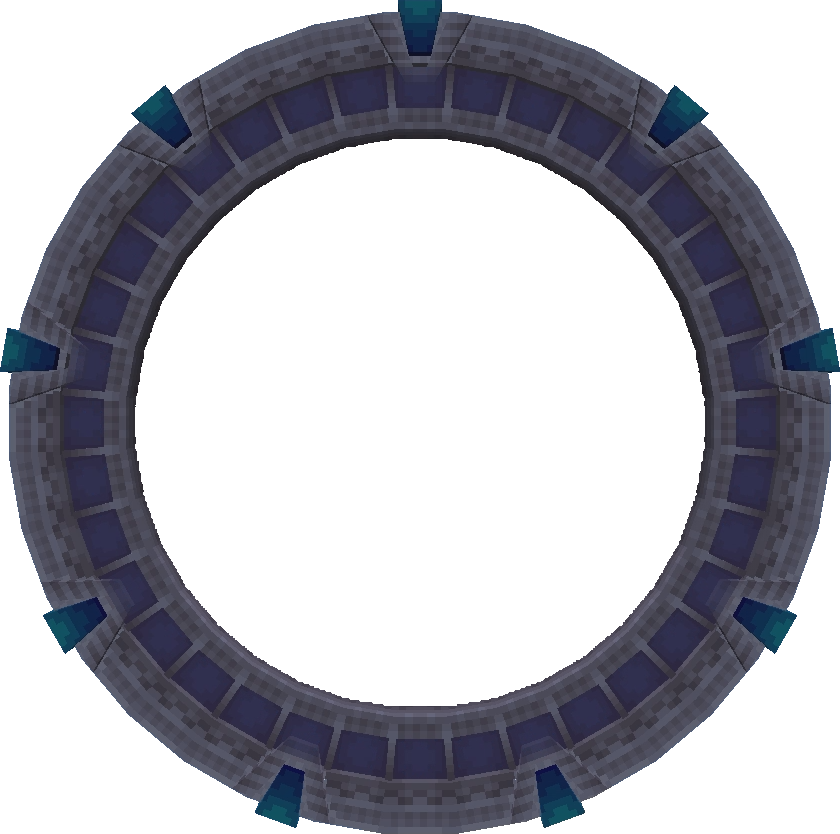
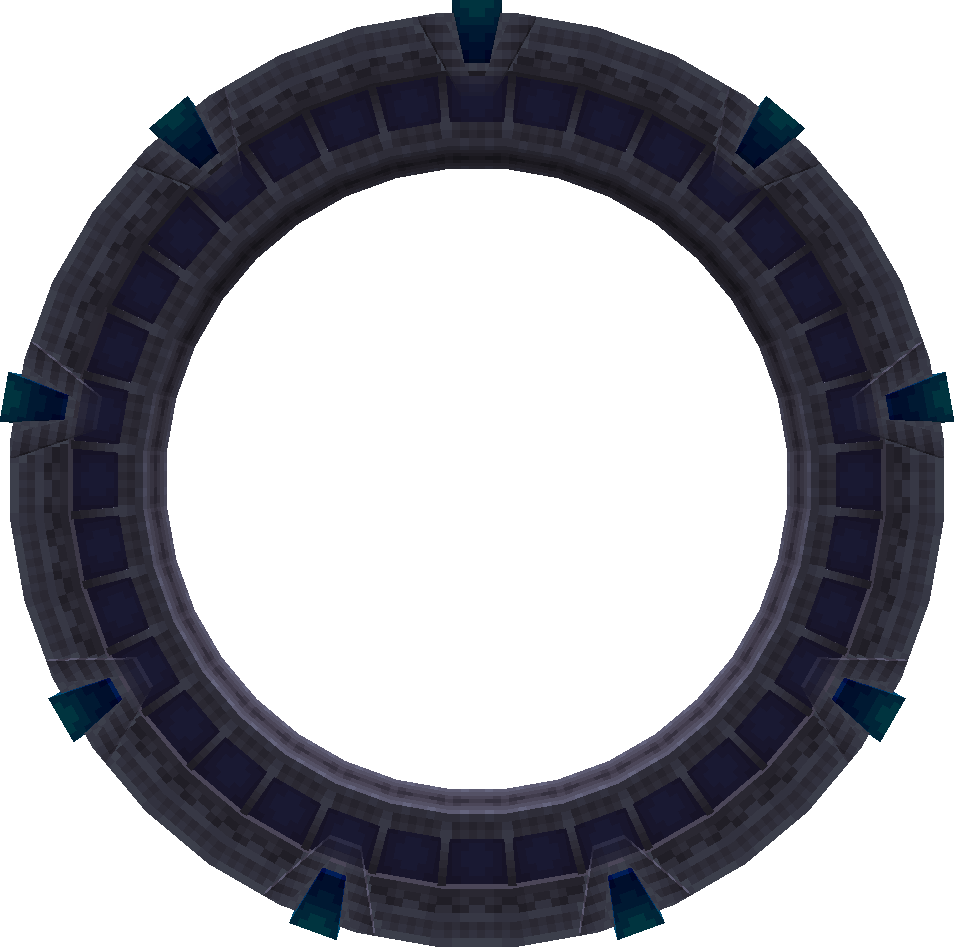
top symbol rendering from symbol texture

diff --git a/src/main/java/cz/lukaskabc/minecraft/mod_loader/loading/stargate_early_loading/elements/PegasusRefreshedLoop.java b/src/main/java/cz/lukaskabc/minecraft/mod_loader/loading/stargate_early_loading/elements/PegasusRefreshedLoop.java
@@ -4,17 +4,27 @@ import cz.lukaskabc.minecraft.mod_loader.loading.stargate_early_loading.reflecti
 import net.neoforged.fml.earlydisplay.QuadHelper;
 import net.neoforged.fml.earlydisplay.RenderElement;
 import net.neoforged.fml.earlydisplay.SimpleBufferBuilder;
-import org.checkerframework.checker.units.qual.C;
 
-import java.awt.*;
 import java.util.List;
-import java.util.Set;
 
 import static cz.lukaskabc.minecraft.mod_loader.loading.stargate_early_loading.StargateEarlyLoadingWindow.ASSETS_DIRECTORY;
 
 public class PegasusRefreshedLoop {
-    private static final int FRAME_COUNT = 36;
+    private static final int SYMBOL_SIZE = 16;
+    private static final int PADDING = 15;
+    private static final int SYMBOL_COUNT = 36;
     private static final int COLOR = (255 << 24) | 0xFFFFFF;
+    private static final int SYMBOL_COLOR = (255 << 24) | 0xFF9B37;
+
+    private static final int SYMBOL_TOP_LEFT = 446;
+    private static final int SYMBOL_TOP_RIGHT = 507;
+    private static final int SYMBOL_BOTTOM_LEFT = 450;
+    private static final int SYMBOL_BOTTOM_RIGHT = 503;
+    private static final float SYMBOL_TOP = 121;
+    private static final float SYMBOL_BOTTOM = 76;
+
+    private static float baseX = 0;
+    private static float baseY = 0;
 
     public static List<RenderElement> create() {
         return List.of(
@@ -24,54 +34,58 @@ public class PegasusRefreshedLoop {
     }
 
     public static RenderElement staticGate() {
-        return RefRenderElement.createQuad(ASSETS_DIRECTORY + "/gates/pegasus_refreshed/base.png", 445969, 2, PegasusRefreshedLoop::renderStaticGate);
+        return RefRenderElement.createQuad(ASSETS_DIRECTORY + "/gates/pegasus_refreshed/base.png", 69182, 2, PegasusRefreshedLoop::renderStaticGate);
     }
 
     public static RenderElement symbolAnimation() {
-        return RefRenderElement.createQuad(ASSETS_DIRECTORY + "/gates/pegasus_refreshed/symbols.png", 188598, 3, PegasusRefreshedLoop::renderSymbolAnimation);
+        return RefRenderElement.createQuad(ASSETS_DIRECTORY + "/gates/pegasus_refreshed/lantea.png", 2057, 3, PegasusRefreshedLoop::renderSymbolAnimation);
     }
 
     public static void renderSymbolAnimation(SimpleBufferBuilder bb, RenderElement.DisplayContext ctx, int[] imgSize, int frame) {
-        float widthScale = (float) ctx.width() / imgSize[0];
-        float heightScale = (float) ctx.height() / imgSize[1];
-        float scale = Math.min(widthScale, heightScale);
-
-        float x0 = Math.abs((ctx.width() - imgSize[0]) / 2);
-        float y0 = Math.abs((ctx.height() - imgSize[1]) / 2);
-
-        int symbolId = frame % FRAME_COUNT;
-
-        renderSymbol(bb, symbolId, x0, y0);
+        int symbolId = (frame / 10) % SYMBOL_COUNT;
+        renderSymbol(bb, symbolId, imgSize);
     }
 
-public static void renderSymbol(SimpleBufferBuilder bb, int symbol, float baseX0, float baseY0) {
-    final float width = 840f;
-    final float height = 834f;
-    final float topTopSymbolY = 63f;
-    final float bottomTopSymbolY = 110f;
-    final float centerX = width / 2;
-    final float centerY = height / 2;
-    final float outerRadius = Math.abs(topTopSymbolY - centerY - 10);
-    final float innerRadius = Math.abs(bottomTopSymbolY - centerY + 5);
+    public static void renderSymbol(SimpleBufferBuilder bb, int symbol, int[] imgSize) {
 
-    final double angle = Math.toRadians((356 + (10 * symbol)) % 360);
-    final double angleSize = Math.toRadians(10); // 10 = 360 / FRAME_COUNT    // FRAME_COUNT = Symbol count
+        final int symbolX = symbol * SYMBOL_SIZE;
+        final float symbolLeft = 1f / imgSize[0] * symbolX;
+        final float symbolRight = 1f / imgSize[0] * (symbolX + SYMBOL_SIZE);
 
-    final float x0 = centerX + outerRadius * (float) Math.cos(angle);
-    final float y0 = centerY + outerRadius * (float) Math.sin(angle) ;
-    final float x1 = centerX + outerRadius * (float) Math.cos(angle + angleSize);
-    final float y1 = centerY + outerRadius * (float) Math.sin(angle + angleSize);
+        bb.pos(baseX + SYMBOL_TOP_LEFT, baseY + SYMBOL_TOP).tex(symbolLeft, 0).colour(SYMBOL_COLOR).endVertex();
+        bb.pos(baseX + SYMBOL_TOP_RIGHT, baseY + SYMBOL_TOP).tex(symbolRight, 0).colour(SYMBOL_COLOR).endVertex();
+        bb.pos(baseX + SYMBOL_BOTTOM_LEFT, baseY + SYMBOL_BOTTOM).tex(symbolLeft, 1).colour(SYMBOL_COLOR).endVertex();
+        bb.pos(baseX + SYMBOL_BOTTOM_RIGHT, baseY + SYMBOL_BOTTOM).tex(symbolRight, 1).colour(SYMBOL_COLOR).endVertex();
 
-    final float x2 = centerX + innerRadius * (float) Math.cos(angle);
-    final float y2 = centerY + innerRadius * (float) Math.sin(angle);
-    final float x3 = centerX + innerRadius * (float) Math.cos(angle + angleSize);
-    final float y3 = centerY + innerRadius * (float) Math.sin(angle + angleSize);
+        /*
 
-    bb.pos(baseX0 + x0, baseY0 + y0).tex(x0 / width, y0 / height).colour(COLOR).endVertex();
-    bb.pos(baseX0 + x1, baseY0 + y1).tex(x1 / width, y1 / height).colour(COLOR).endVertex();
-    bb.pos(baseX0 + x2, baseY0 + y2).tex(x2 / width, y2 / height).colour(COLOR).endVertex();
-    bb.pos(baseX0 + x3, baseY0 + y3).tex(x3 / width, y3 / height).colour(COLOR).endVertex();
-}
+        final float width = 840f;
+        final float height = 834f;
+        final float topTopSymbolY = 63f;
+        final float bottomTopSymbolY = 110f;
+        final float centerX = width / 2;
+        final float centerY = height / 2;
+        final float outerRadius = Math.abs(topTopSymbolY - centerY - 10);
+        final float innerRadius = Math.abs(bottomTopSymbolY - centerY + 5);
+
+        final double angle = Math.toRadians((356 + (10 * symbol)) % 360);
+        final double angleSize = Math.toRadians(10); // 10 = 360 / FRAME_COUNT    // FRAME_COUNT = Symbol count
+
+        final float x0 = centerX + outerRadius * (float) Math.cos(angle);
+        final float y0 = centerY + outerRadius * (float) Math.sin(angle);
+        final float x1 = centerX + outerRadius * (float) Math.cos(angle + angleSize);
+        final float y1 = centerY + outerRadius * (float) Math.sin(angle + angleSize);
+
+        final float x2 = centerX + innerRadius * (float) Math.cos(angle);
+        final float y2 = centerY + innerRadius * (float) Math.sin(angle);
+        final float x3 = centerX + innerRadius * (float) Math.cos(angle + angleSize);
+        final float y3 = centerY + innerRadius * (float) Math.sin(angle + angleSize);
+
+        bb.pos(baseX0 + x0, baseY0 + y0).tex(x0 / width, y0 / height).colour(COLOR).endVertex();
+        bb.pos(baseX0 + x1, baseY0 + y1).tex(x1 / width, y1 / height).colour(COLOR).endVertex();
+        bb.pos(baseX0 + x2, baseY0 + y2).tex(x2 / width, y2 / height).colour(COLOR).endVertex();
+        bb.pos(baseX0 + x3, baseY0 + y3).tex(x3 / width, y3 / height).colour(COLOR).endVertex();*/
+    }
 
     public static void renderStaticGate(SimpleBufferBuilder bb, RenderElement.DisplayContext ctx, int[] imgSize, int frame) {
         float widthScale = (float) ctx.width() / imgSize[0];
@@ -81,9 +95,9 @@ public static void renderSymbol(SimpleBufferBuilder bb, int symbol, float baseX0
         float x1 = Math.min(imgSize[0] * scale, imgSize[0]);
         float y1 = Math.min(imgSize[1] * scale, imgSize[1]);
 
-        float x0 = (ctx.width() - x1) / 2;
-        float y0 = (ctx.height() - y1) / 2;
+        baseX = (ctx.width() - x1) / 2;
+        baseY = (ctx.height() - y1) / 2;
 
-        QuadHelper.loadQuad(bb, x0, x0 + x1, y0, y0 + y1, 0f, 1f, 0f, 1f, COLOR);
+        QuadHelper.loadQuad(bb, baseX, baseX + x1, baseY, baseY + y1, 0f, 1f, 0f, 1f, COLOR);
     }
 }

diff --git a/src/main/java/cz/lukaskabc/minecraft/mod_loader/loading/stargate_early_loading/StargateEarlyLoadingWindow.java b/src/main/java/cz/lukaskabc/minecraft/mod_loader/loading/stargate_early_loading/StargateEarlyLoadingWindow.java
@@ -4,7 +4,6 @@ import cz.lukaskabc.minecraft.mod_loader.loading.stargate_early_loading.elements
 import cz.lukaskabc.minecraft.mod_loader.loading.stargate_early_loading.elements.PegasusRefreshedLoop;
 import cz.lukaskabc.minecraft.mod_loader.loading.stargate_early_loading.reflection.RefDisplayWindow;
 import cz.lukaskabc.minecraft.mod_loader.loading.stargate_early_loading.reflection.ReflectionException;
-import net.neoforged.fml.earlydisplay.ColourScheme;
 import net.neoforged.fml.earlydisplay.DisplayWindow;
 import net.neoforged.fml.earlydisplay.RenderElement;
 import net.neoforged.neoforgespi.earlywindow.ImmediateWindowProvider;
@@ -39,7 +38,7 @@ public class StargateEarlyLoadingWindow extends DisplayWindow implements Immedia
 
     private static List<RenderElement> constructElements() {
         final List<RenderElement> elements = new ArrayList<>();
-        //elements.add(DarkSkyBackground.create());
+        elements.add(DarkSkyBackground.create());
         elements.addAll(PegasusRefreshedLoop.create());
         return elements;
     }

diff --git a/src/main/java/cz/lukaskabc/minecraft/mod_loader/loading/stargate_early_loading/original/STBHelper.java b/src/main/java/cz/lukaskabc/minecraft/mod_loader/loading/stargate_early_loading/original/STBHelper.java
@@ -3,6 +3,8 @@
  * SPDX-License-Identifier: LGPL-2.1-only
  * Moved for execution on different class loader.
  * All rights belong to the original authors.
+ * Changes:
+ * - Magnification filter to nearest
  */
 package cz.lukaskabc.minecraft.mod_loader.loading.stargate_early_loading.original;
 
@@ -49,7 +51,7 @@ public class STBHelper {
         var texid = glGenTextures();
         glActiveTexture(textureNumber);
         glBindTexture(GL_TEXTURE_2D, texid);
-        glTexParameteri(GL_TEXTURE_2D, GL_TEXTURE_MAG_FILTER, GL_LINEAR);
+        glTexParameteri(GL_TEXTURE_2D, GL_TEXTURE_MAG_FILTER, GL_NEAREST);
         glTexParameteri(GL_TEXTURE_2D, GL_TEXTURE_MIN_FILTER, GL_LINEAR);
         glTexImage2D(GL_TEXTURE_2D, 0, GL_RGBA, lw[0], lh[0], 0, GL_RGBA, GL_UNSIGNED_BYTE, img);
         glActiveTexture(GL_TEXTURE0);

diff --git a/src/main/resources/assets/gates/README.md b/src/main/resources/assets/gates/README.md
@@ -1,0 +1,56 @@
+# Making assets
+
+## Stargate Base
+
+1. Open IntelliJ IDEA with StargateJourney
+2. Launch dev instance and create a new world  
+   few setup commands
+
+```
+/gamerule doDaylightCycle false
+/gamerule doWeatherCycle false
+/time set noon
+/setblock 4 104 0 stone
+/setblock 10 106 0 gold_block
+/tp @p 10 107 0 90 0
+```
+
+Now you are standing centered on a gold block and facing a stone block.
+Place the stargate on the stone block.
+
+Clear symbols from the gate.
+
+```
+/data merge block 4 105 0 {Symbols: "sgjourney:empty", PointOfOrigin: "sgjourney:empty"}
+```
+
+- Disable fly (land on a ground) - otherwise you have different FOV
+- Set FOV to normal and brightness to max
+- `F11` to enter full screen mode (use FullHD resolution)
+- `F1` to disable UI
+- Use the `tp` command again to center the view on the stargate
+- `F2` to take a screenshot of the gate
+
+You will need following screenshots:
+
+1. the inactive stargate
+
+-------------
+
+2. the inactive stargate without chevrons
+   In the stargate class (e.g. `net.povstalec.sgjourney.client.models.PegasusStargateModel`)
+   comment out line `this.renderChevrons` in the `renderStargate` method,
+   reload the class to apply changes and take a screenshot.
+
+-------------
+
+Additionally for MW gate:
+
+3. take a screenshot with disabled symbol ring dividers
+   (`net.povstalec.sgjourney.client.models.GenericStargateModel#renderSymbolRing`)
+   and with some unified color for the symbol ring
+
+That will allow to remove the ring from the base texture in photoshop.
+After that, the base stargate texture can be rendered above the rotating ring with symbols.
+
+The final trimmed stargate base texture should be `954x947`.
